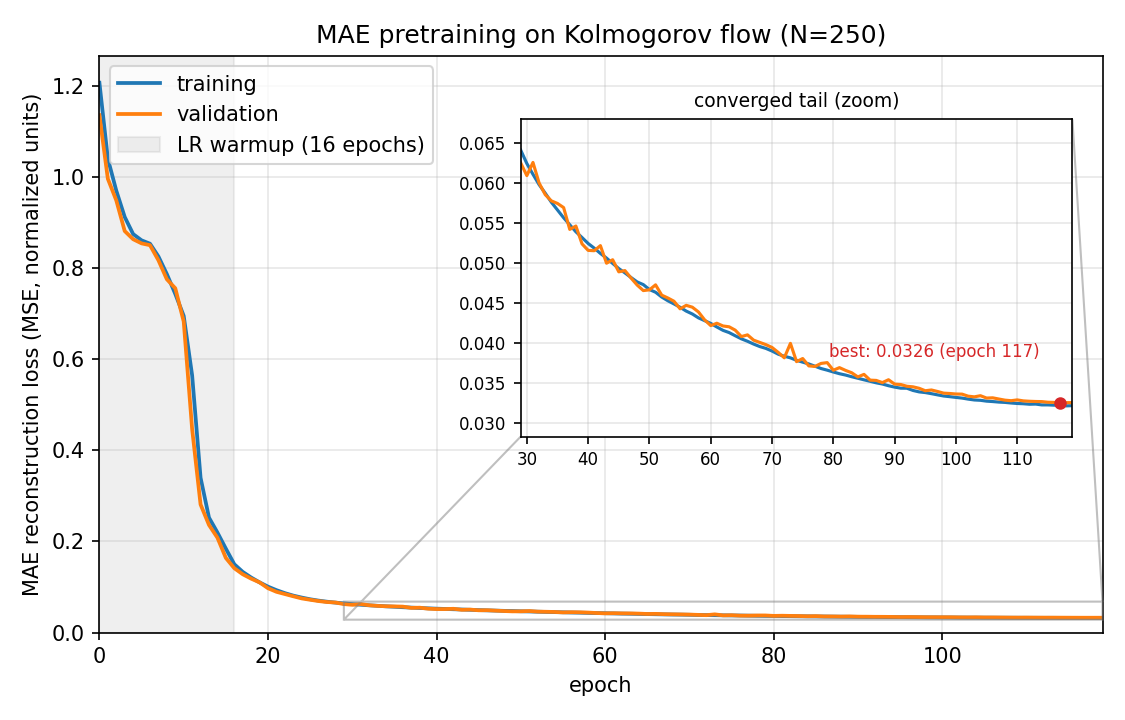
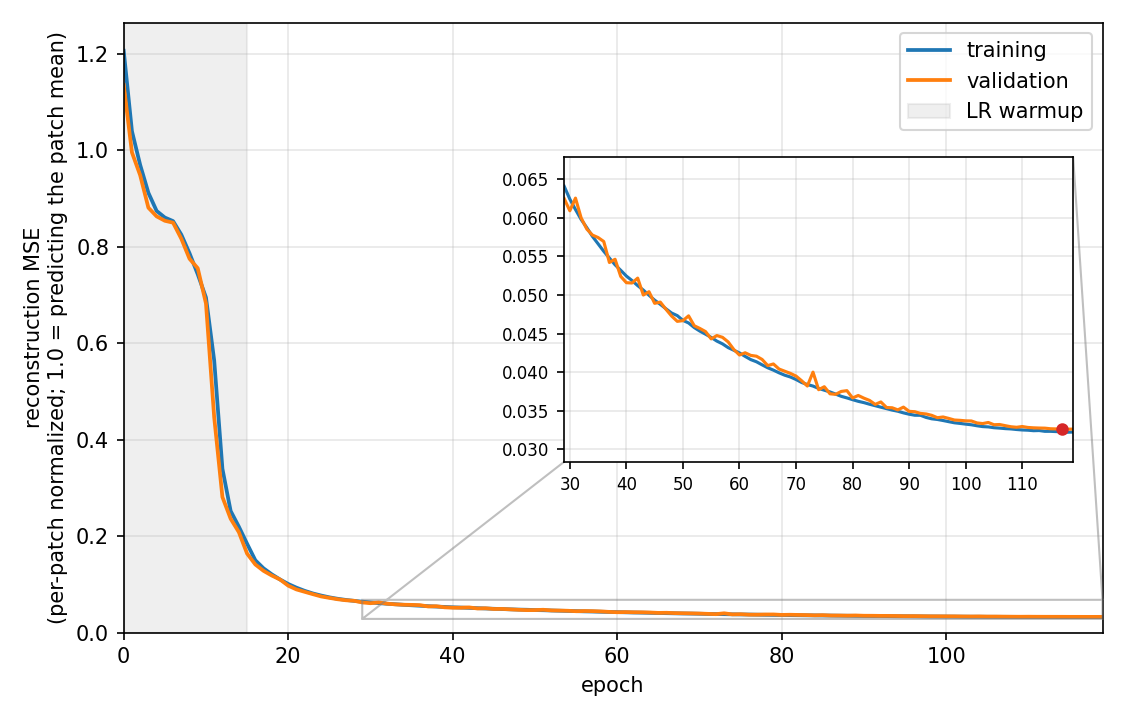
x

diff --git a/src/hiera_2d/analysis/loss_curve.py b/src/hiera_2d/analysis/loss_curve.py
@@ -58,7 +58,10 @@ def load_loss_history(run_dir: Path) -> LossHistory:
     warmup_epochs = None
     if "lr" in tags:
         lr = np.array([e.value for e in accumulator.Scalars("lr")])
-        warmup_epochs = int(np.argmax(lr)) + 1  # LR climbs through warmup, so the peak ends it
+        # The LR climbs through warmup and the peak is the FIRST epoch at full LR, i.e.
+        # the first epoch after warmup -- so the peak's index IS the warmup length, and
+        # adding one would count that post-warmup epoch as part of it.
+        warmup_epochs = int(np.argmax(lr))
 
     return LossHistory(
         epochs=np.arange(len(val)),
@@ -79,8 +82,13 @@ def tail_start(val: np.ndarray, factor: float = 2.0) -> int:
     return int(within[0]) if within.size else 0
 
 
-def plot_loss_curve(history: LossHistory, out_path: Path, title: str) -> None:
-    """Write the loss figure: linear axes, warmup shaded, converged tail inset."""
+def plot_loss_curve(history: LossHistory, out_path: Path, title: str = "") -> None:
+    """Write the loss figure: linear axes, warmup shaded, converged tail inset.
+
+    Deliberately spare on text: the figure lives next to a caption in the write-up, so
+    the title is empty by default and the numbers (best loss, epoch) belong in the
+    caption rather than annotated onto the axes.
+    """
     import matplotlib.pyplot as plt
 
     best = int(np.argmin(history.val))
@@ -91,42 +99,32 @@ def plot_loss_curve(history: LossHistory, out_path: Path, title: str) -> None:
     ax.plot(history.epochs, history.val, color="tab:orange", lw=1.8, label="validation")
 
     if history.warmup_epochs:
-        ax.axvspan(
-            0,
-            history.warmup_epochs,
-            color="gray",
-            alpha=0.12,
-            label=f"LR warmup ({history.warmup_epochs} epochs)",
-        )
+        ax.axvspan(0, history.warmup_epochs, color="gray", alpha=0.12, label="LR warmup")
 
+    # The loss is MSE against per-patch-normalized targets, so it is dimensionless and
+    # 1.0 is the trivial baseline: predicting each patch's own mean. Saying so on the
+    # axis is what makes 0.033 legible as "3% of the per-patch variance is left".
     ax.set_xlim(0, history.epochs[-1])
     ax.set_ylim(0, None)
     ax.set_xlabel("epoch")
-    ax.set_ylabel("MAE reconstruction loss (MSE, normalized units)")
-    ax.set_title(title)
+    ax.set_ylabel("reconstruction MSE\n(per-patch normalized; 1.0 = predicting the patch mean)")
     ax.grid(True, alpha=0.3)
 
-    axins = ax.inset_axes((0.42, 0.34, 0.55, 0.55))
+    if title:
+        ax.set_title(title)
+
+    # Sits below the legend (upper right) and above the converged tail it magnifies.
+    axins = ax.inset_axes((0.45, 0.28, 0.52, 0.50))
     axins.plot(history.epochs[start:], history.train[start:], color="tab:blue", lw=1.5)
     axins.plot(history.epochs[start:], history.val[start:], color="tab:orange", lw=1.5)
     axins.plot(best, history.val[best], "o", color="tab:red", ms=5, zorder=5)
-    axins.annotate(
-        f"best: {history.val[best]:.4f} (epoch {best})",
-        xy=(best, history.val[best]),
-        xytext=(-10, 22),
-        textcoords="offset points",
-        ha="right",
-        fontsize=8,
-        color="tab:red",
-    )
     axins.margins(y=0.12)
     axins.set_xlim(start, history.epochs[-1])
-    axins.set_title("converged tail (zoom)", fontsize=9)
     axins.tick_params(labelsize=8)
     axins.grid(True, alpha=0.3)
     ax.indicate_inset_zoom(axins, edgecolor="gray")
 
-    ax.legend(loc="upper left")
+    ax.legend(loc="upper right")
     fig.tight_layout()
     fig.savefig(out_path, dpi=150)
     plt.close(fig)
@@ -135,7 +133,7 @@ def plot_loss_curve(history: LossHistory, out_path: Path, title: str) -> None:
 def main(argv: Sequence[str] | None = None):
     p = argparse.ArgumentParser(description="Plot the loss curve of a training run")
     p.add_argument("run_dir", type=Path, help="Run directory holding the TensorBoard event file")
-    p.add_argument("--title", default="MAE pretraining on Kolmogorov flow")
+    p.add_argument("--title", default="", help="Axes title; empty (the default) for a figure that carries a caption")
     p.add_argument("-o", "--output", type=Path, default=Path("outputs/analysis_loss/loss_curve.png"))
     args = p.parse_args(argv)
 
